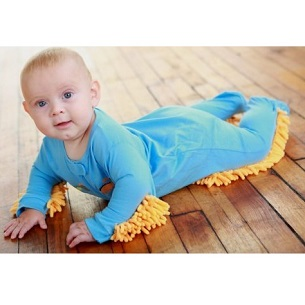
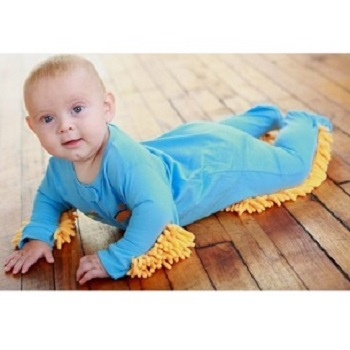
updated image size

diff --git a/2app.js b/2app.js
@@ -148,3 +148,71 @@ rightImgEl.alt = tracker.rightImage.name;
 products[tracker.leftImage].views++;
 products[tracker.centerImage].views++;
 products[tracker.rightImage].views++;
+
+// var colors = ["Red", "Blue", "Yellow", "Green", "Purple", "Orange"];
+
+// var colorsEl =  document.getElementById()
+
+// var ctx = document.getElementById("myChart").getContext('2d');
+
+// var myChart = new Chart(ctx, {
+//   var chartConfig = {
+//     type: 'bar',
+//     data: {
+//         labels: names, //should mirror our colors array so it dynamic
+//         datasets: [{
+//             label: '# of Votes',
+//             data: [12, 19, 3, 5, 2, 3], // whatever length of array, should correlate with values?  needs to match up appropriatelly 
+//             backgroundColor: [
+//                 'rgba(255, 99, 132, 0.2)',
+//                 'rgba(54, 162, 235, 0.2)',
+//                 'rgba(255, 206, 86, 0.2)',
+//                 'rgba(75, 192, 192, 0.2)',
+//                 'rgba(153, 102, 255, 0.2)',
+//                 'rgba(255, 159, 64, 0.2)'
+//             ],
+//             borderColor: [
+//                 'rgba(255,99,132,1)',
+//                 'rgba(54, 162, 235, 1)',
+//                 'rgba(255, 206, 86, 1)',
+//                 'rgba(75, 192, 192, 1)',
+//                 'rgba(153, 102, 255, 1)',
+//                 'rgba(255, 159, 64, 1)'
+//             ],
+//             borderWidth: 1
+//         }]
+//     },
+//     options: {
+//         scales: {
+//             yAxes: [{
+//                 ticks: {
+//                     beginAtZero:true //tells y axis to begin at 0
+//                 }
+//             }]
+//         }
+//     }
+// });
+
+// var myCharl = new Chart(ctx, chartConfig);
+
+// chartConfig.data.datasets[0].data //nested nested nested
+
+// // to enable click 
+
+// data: new Array(colors.length).fill(0);
+// //create id tages within each element  to target
+
+// colorsEl.addEventListener('click', function(event) {
+//   //validate target was a p tag
+//   //get the id of the target p tag
+//   //use the id to get the index locaiton for hwat data point to increment in data
+//   var pId = event.target;
+//   console.log(pEL);
+//   var idx = colors.indexOf(pId);
+//   if(idx !== -1) { // if index is not -1
+//     //do a thing
+//     myChart.data.dataset[0].data[idx] += 1; //increments by one
+//     myChart.update();
+//   }
+
+// })

diff --git a/app.js b/app.js
@@ -7,7 +7,6 @@ var leftImgEl = document.getElementById('left-image');
 var centerImgEl = document.getElementById('center-image');
 var rightImgEl = document.getElementById('right-image');
 var results = document.getElementById('results');
-var reset = document.getElementById('reset-button');
 console.log(lastSet);
 function Product(name, src) {
   this.name = name;
@@ -27,7 +26,6 @@ var tracker = {
   rightImage: [],
   getRandomIndex: function () {
     return Math.floor(Math.random() * (20 - 1));
-    console.log(this.getRandomIndex);
   },
   getUniqueImages: function () {
     tracker.leftImage = products[tracker.getRandomIndex()]; //pushes one item at a random index[i] from products array to property leftImage within tracker variable
